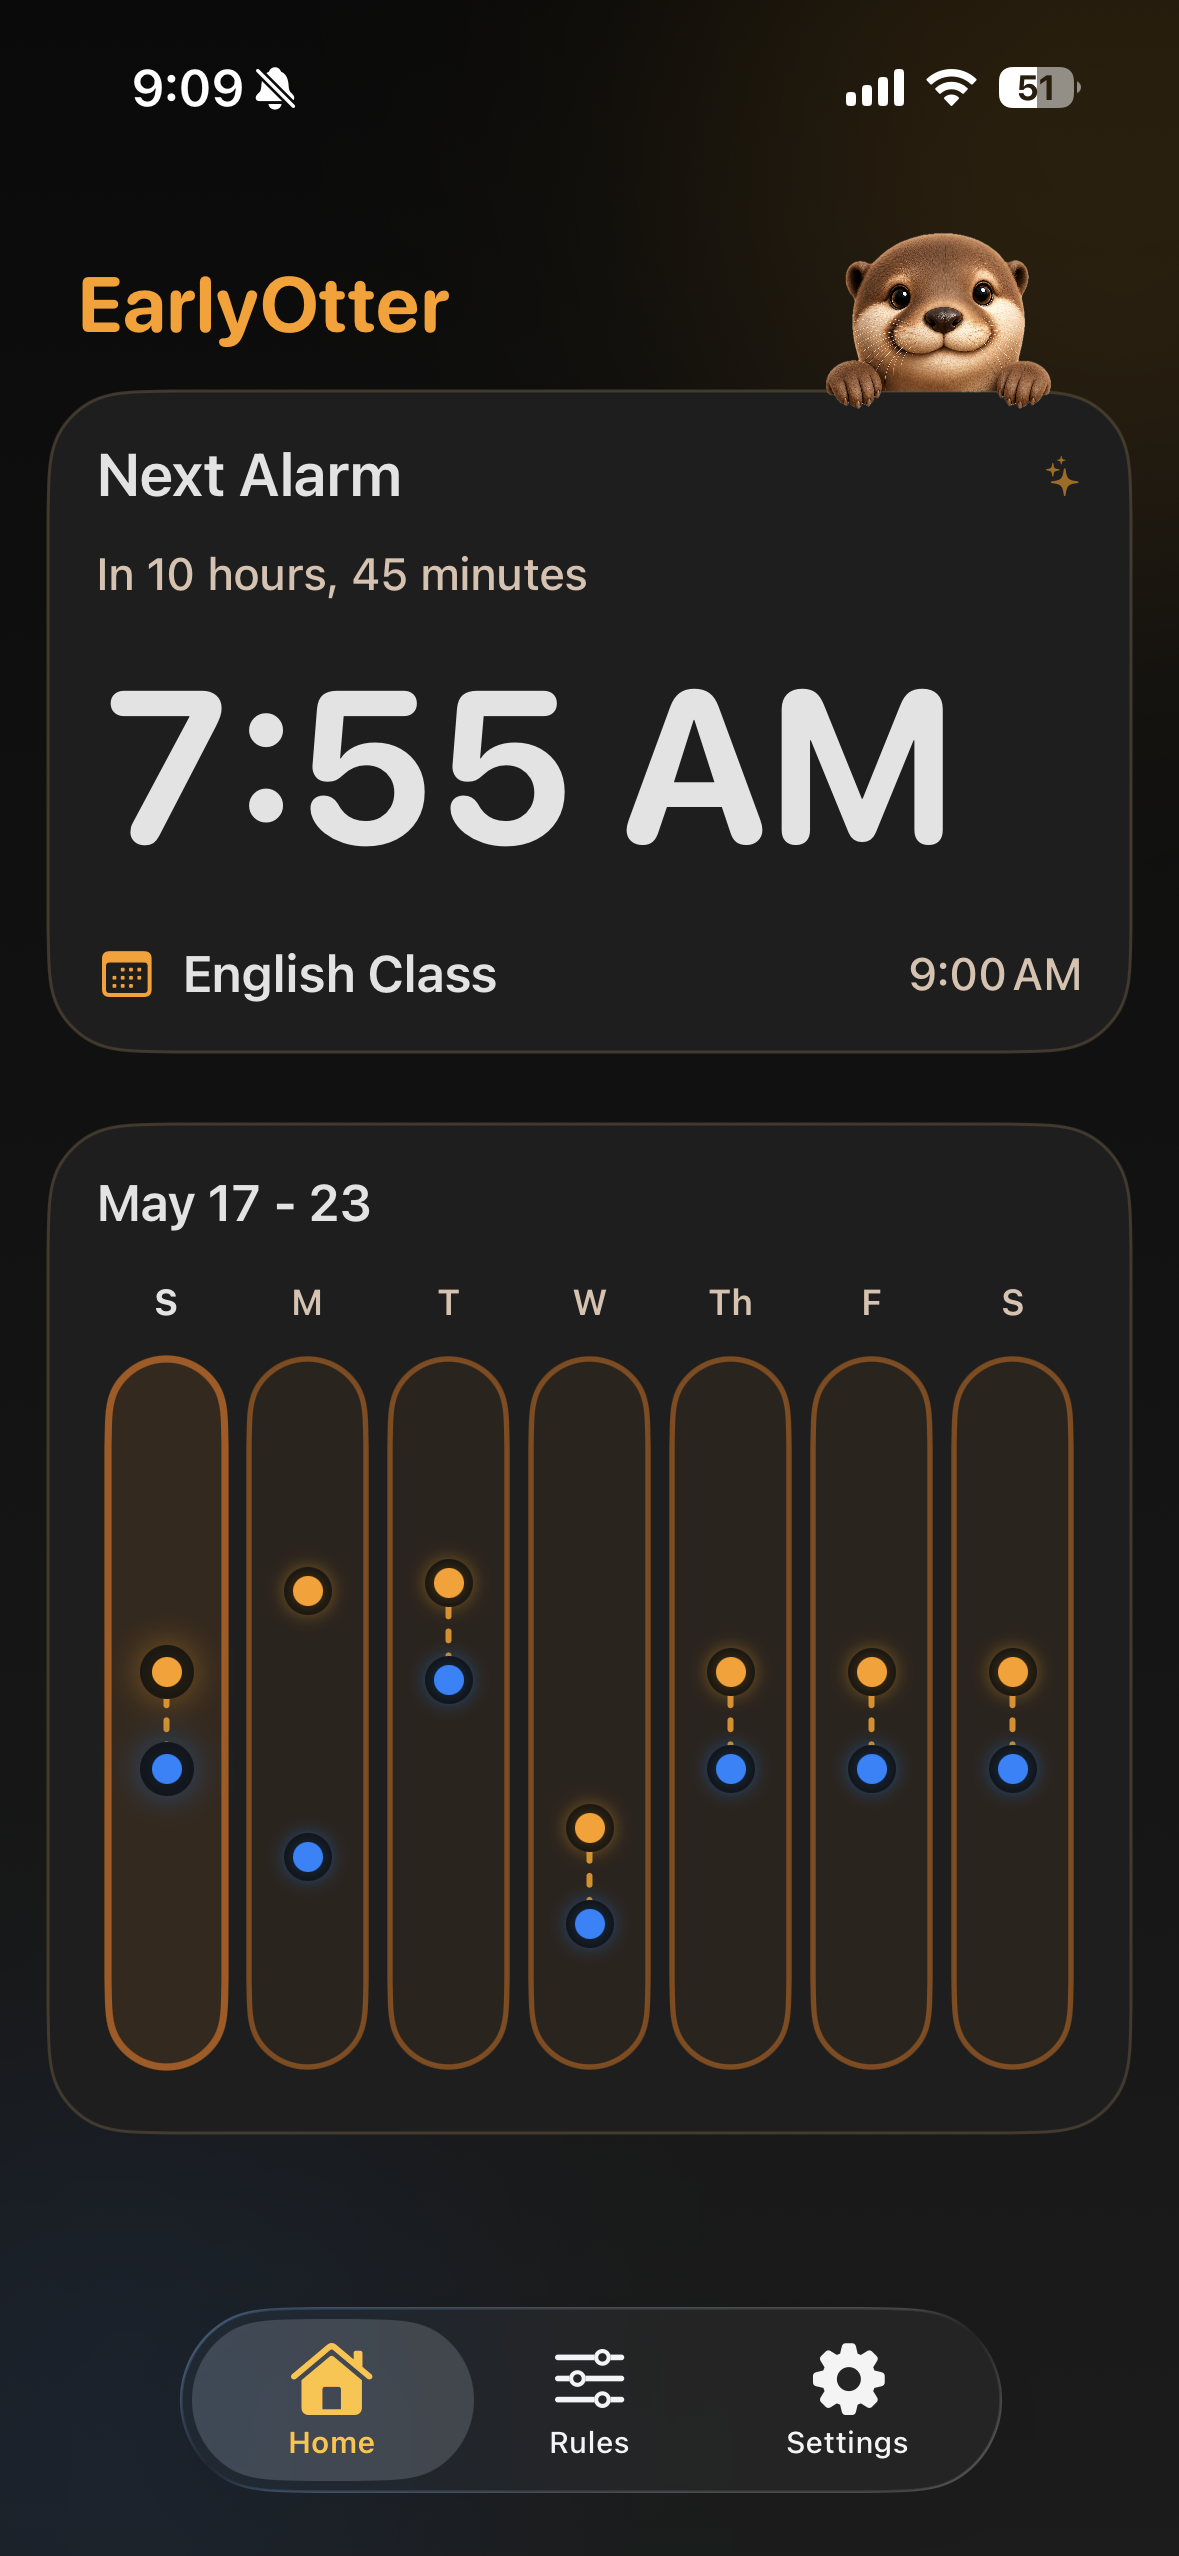
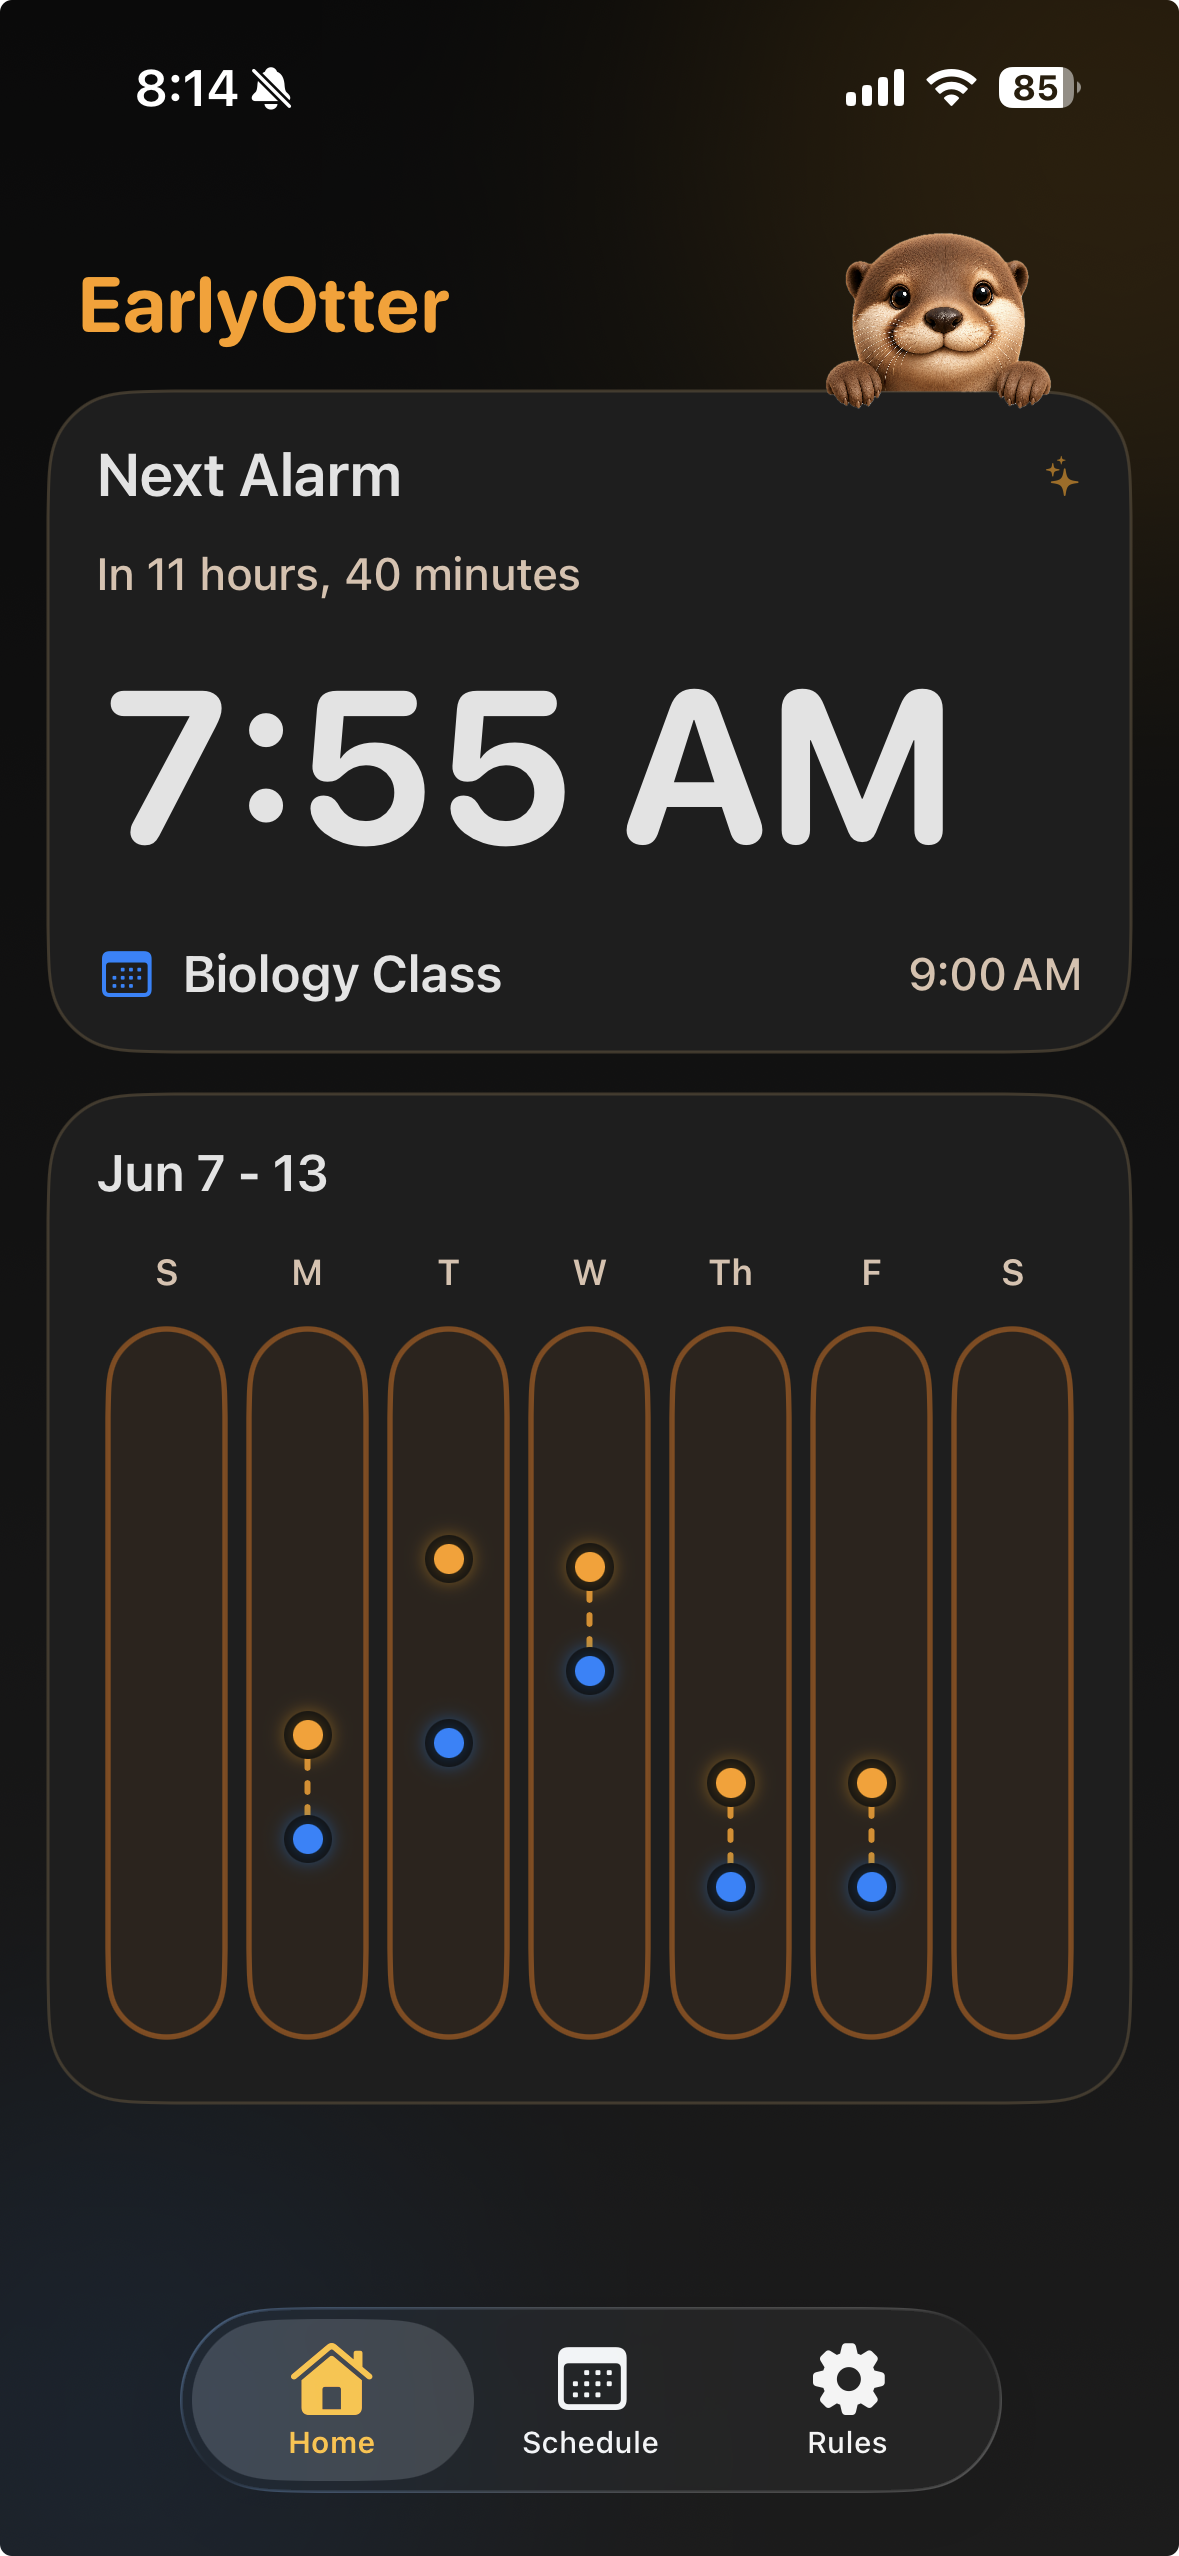
feat: update sync timestamps and modify alarm terminology to 'standby' across the application

diff --git a/EarlyOtter/UI/Onboarding/OnboardingView.swift b/EarlyOtter/UI/Onboarding/OnboardingView.swift
@@ -282,7 +282,7 @@ struct OnboardingView: View {
                 } else if finishPhase == 3 {
                     if let plan = finishStepPlan {
                         VStack(spacing: 24) {
-                            Text(plan.reason == .event ? "Your First Smart Alarm" : "No Events Tomorrow!")
+                            Text(plan.reason == .event ? "Your First Auto Alarm" : "No Events Tomorrow!")
                                 .font(.system(.title2, design: .rounded).weight(.bold))
                                 .foregroundStyle(WPStyles.primaryText)
                                 .multilineTextAlignment(.center)
@@ -343,7 +343,7 @@ struct OnboardingView: View {
                 } else if finishPhase >= 4 {
                     if finishStepPlan != nil {
                         VStack(spacing: 28) {
-                            Text("Set fixed alarms for days without morning events.")
+                            Text("Set Standby Alarms for days without events.")
                                 .font(.body.weight(.medium))
                                 .multilineTextAlignment(finishPhase == 4 ? .center : .leading)
                                 .foregroundStyle(WPStyles.secondaryText)
@@ -355,7 +355,7 @@ struct OnboardingView: View {
 
                             if finishPhase >= 5 {
                                 VStack(alignment: .leading, spacing: 16) {
-                                    Text("Fixed Alarms")
+                                    Text("Standby Alarms")
                                         .font(.headline)
                                         .foregroundStyle(WPStyles.primaryText)
                                     
@@ -453,27 +453,27 @@ struct OnboardingView: View {
     }
     
     private func weekdayCell(_ option: WeekdayOption) -> some View {
-        let isAutoPilot = appState.preferences.activeDays.contains(option.weekday)
-        let isFallback = appState.preferences.fallbackEnabledDays.contains(option.weekday)
+        let isAutoAlarm = appState.preferences.activeDays.contains(option.weekday)
+        let isFixed = appState.preferences.fixedAlarmEnabled(on: option.weekday)
 
         return Button { selectedWeekday = option } label: {
             VStack(spacing: 8) {
                 Text(option.shortLabel).font(.system(size: 9, weight: .bold))
                 Circle()
-                    .fill(isFallback ? WPStyles.primaryOrange : WPStyles.surfaceRaised)
+                    .fill(isFixed ? WPStyles.primaryOrange : WPStyles.surfaceRaised)
                     .frame(width: 6, height: 6)
             }
             .frame(maxWidth: .infinity)
             .padding(.vertical, 10)
             .background(
                 RoundedRectangle(cornerRadius: 10, style: .continuous)
-                    .fill(isAutoPilot || isFallback ? WPStyles.surfaceRaised : WPStyles.surface)
+                    .fill(isAutoAlarm || isFixed ? WPStyles.surfaceRaised : WPStyles.surface)
             )
             .overlay(
                 RoundedRectangle(cornerRadius: 10, style: .continuous)
-                    .stroke(isAutoPilot ? WPStyles.primaryOrange.opacity(0.8) : Color.white.opacity(0.06), lineWidth: 1)
+                    .stroke(isAutoAlarm ? WPStyles.primaryOrange.opacity(0.8) : Color.white.opacity(0.06), lineWidth: 1)
             )
-            .foregroundStyle(isAutoPilot || isFallback ? WPStyles.primaryText : WPStyles.secondaryText.opacity(0.7))
+            .foregroundStyle(isAutoAlarm || isFixed ? WPStyles.primaryText : WPStyles.secondaryText.opacity(0.7))
         }
         .buttonStyle(.plain)
     }
@@ -652,7 +652,7 @@ struct OnboardingView: View {
             }
             return Text("Tomorrow's alarm is \(Text(timeString).bold()).")
         case .fallback, .manualOverride:
-            return Text("Fixed alarm at \(Text(timeString).bold()).")
+            return Text("Standby alarm at \(Text(timeString).bold()).")
         case .authorizationMissing:
             return Text("Alarm access is still off.")
         case .noSchedule, .inactiveDay:

diff --git a/EarlyOtter/UI/Settings/SettingsViewModel.swift b/EarlyOtter/UI/Settings/SettingsViewModel.swift
@@ -42,7 +42,7 @@ enum EarlyOtterUIConfiguration {
             destination: .timing,
             title: "Timing",
             icon: "clock.badge.checkmark",
-            helperText: "Prep time, commute buffer, and fixed alarm time."
+            helperText: "Prep time, commute buffer, and standby alarm time."
         ),
         RuleEditorDescriptor(
             destination: .calendars,
@@ -180,7 +180,7 @@ struct ScheduleViewModel {
             return "EarlyOtter will not calculate or schedule alarms until Auto Alarms are re-enabled."
         }
 
-        return "EarlyOtter can schedule alarms on \(days) and use a fixed alarm time of \(fallback) when no event matches."
+        return "EarlyOtter can schedule alarms on \(days) and use a standby alarm time of \(fallback) when no event matches."
     }
 
     var activeDaysSummary: String {

diff --git a/EarlyOtter/UI/Dashboard/DashboardViewModel.swift b/EarlyOtter/UI/Dashboard/DashboardViewModel.swift
@@ -191,7 +191,7 @@ struct DashboardViewModel {
                 return "Auto Alarms are paused for that day based on your active schedule."
             }
             if plan.reason == .fallback {
-                return "Fixed alarm is scheduled."
+                return "Standby alarm is scheduled."
             }
             return "Alarm scheduled for the next valid event."
         case .needsPermission:
@@ -201,7 +201,7 @@ struct DashboardViewModel {
         case .failed(let message):
             return "Couldn't schedule alarm: \(message)"
         case .notScheduled:
-            return "No scheduled events or fixed alarm."
+            return "No scheduled events or standby alarm."
         }
     }
 

diff --git a/EarlyOtter/UI/Settings/TimingSettingsView.swift b/EarlyOtter/UI/Settings/TimingSettingsView.swift
@@ -44,7 +44,7 @@ struct TimingSettingsView: View {
                         Divider()
 
                         HStack {
-                            Text("Fixed alarm time")
+                            Text("Standby alarm time")
                                 .font(.headline)
                                 .foregroundStyle(WPStyles.primaryText)
                             Spacer()

diff --git a/EarlyOtter/Application/EarlyOtterRefreshService.swift b/EarlyOtter/Application/EarlyOtterRefreshService.swift
@@ -232,7 +232,7 @@ extension EarlyOtterRefreshService {
             return event.startDate.formatted(date: .omitted, time: .shortened)
         }
 
-        return "Fixed alarm"
+        return "Standby alarm"
     }
 
     func widgetShowsConnectedMarkers(

diff --git a/EarlyOtter/UI/Dashboard/EarlyOtterDetailsView.swift b/EarlyOtter/UI/Dashboard/EarlyOtterDetailsView.swift
@@ -10,7 +10,7 @@ struct EarlyOtterDetailsView: View {
         }
 
         if plan.reason == .fallback {
-            return "Fixed"
+            return "Standby"
         }
 
         return nil

diff --git a/.github/copilot-instructions.md b/.github/copilot-instructions.md
@@ -1,6 +1,6 @@
 <!-- BEGIN:pinksundew-sync -->
 // AUTO-GENERATED BY PINK SUNDEW - DO NOT EDIT THIS BLOCK
-// Last synced: 2026-06-03T00:45:29.871287+00:00
+// Last synced: 2026-06-04T01:59:26.083812+00:00
 // Project: CalendarAlarm
 
 ### Architecture and Design

diff --git a/AGENTS.md b/AGENTS.md
@@ -1,6 +1,6 @@
 <!-- BEGIN:pinksundew-sync -->
 // AUTO-GENERATED BY PINK SUNDEW - DO NOT EDIT THIS BLOCK
-// Last synced: 2026-06-03T00:45:29.869735+00:00
+// Last synced: 2026-06-04T01:59:26.082705+00:00
 // Project: CalendarAlarm
 
 ### Architecture and Design

diff --git a/antigravity.md b/antigravity.md
@@ -1,6 +1,6 @@
 <!-- BEGIN:pinksundew-sync -->
 // AUTO-GENERATED BY PINK SUNDEW - DO NOT EDIT THIS BLOCK
-// Last synced: 2026-06-03T00:45:29.870262+00:00
+// Last synced: 2026-06-04T01:59:26.083175+00:00
 // Project: CalendarAlarm
 
 ### Architecture and Design
